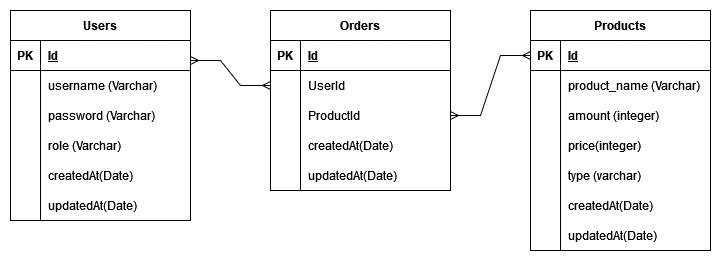
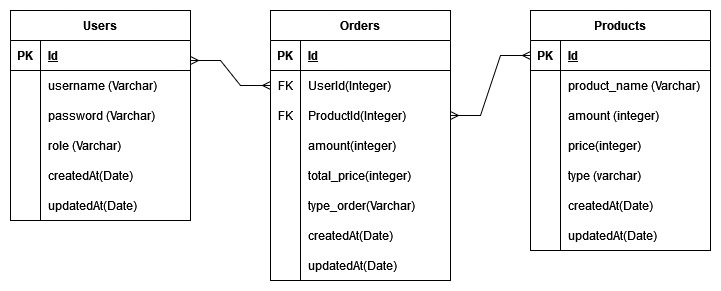
add seeding and edit schema

diff --git a/backend/migrations/20230217064931-create-order.js b/backend/migrations/20230217064931-create-order.js
@@ -1,43 +1,52 @@
-'use strict';
+"use strict";
 /** @type {import('sequelize-cli').Migration} */
 module.exports = {
   async up(queryInterface, Sequelize) {
-    await queryInterface.createTable('Orders', {
+    await queryInterface.createTable("Orders", {
       id: {
         allowNull: false,
         autoIncrement: true,
         primaryKey: true,
-        type: Sequelize.INTEGER
+        type: Sequelize.INTEGER,
       },
       UserId: {
         type: Sequelize.INTEGER,
         references: {
-          model: 'Users',
-          key: 'id'
+          model: "Users",
+          key: "id",
         },
-        onUpdate: 'cascade',
-        onDelete: 'cascade'
+        onUpdate: "cascade",
+        onDelete: "cascade",
       },
       ProductId: {
         type: Sequelize.INTEGER,
         references: {
-          model: 'Product',
-          key: 'id'
+          model: "Products",
+          key: "id",
         },
-        onUpdate: 'cascade',
-        onDelete: 'cascade'
+        onUpdate: "cascade",
+        onDelete: "cascade",
+      },
+      amount: {
+        type: Sequelize.INTEGER,
+      },
+      total_price: {
+        type: Sequelize.INTEGER,
+      },
+      typeOrder: {
+        type: Sequelize.STRING,
       },
       createdAt: {
         allowNull: false,
-        type: Sequelize.DATE
+        type: Sequelize.DATE,
       },
       updatedAt: {
         allowNull: false,
-        type: Sequelize.DATE
-      }
+        type: Sequelize.DATE,
+      },
     });
   },
   async down(queryInterface, Sequelize) {
-    await queryInterface.dropTable('Orders');
-  }
+    await queryInterface.dropTable("Orders");
+  },
 };

diff --git a/backend/seeders/20230217070127-seed_user.js b/backend/seeders/20230217070127-seed_user.js
@@ -1,0 +1,35 @@
+'use strict';
+
+const { hashPassword } = require('../helpers/bcrypt');
+
+/** @type {import('sequelize-cli').Migration} */
+module.exports = {
+  async up (queryInterface, Sequelize) {
+    let userData = require("../db.json").Users
+    userData.forEach(el=>{
+      el.password = hashPassword(el.password)
+      el.createdAt = new Date()
+      el.updatedAt = new Date()
+    })
+    await queryInterface.bulkInsert('Users', userData, {})
+    /**
+     * Add seed commands here.
+     *
+     * Example:
+     * await queryInterface.bulkInsert('People', [{
+     *   name: 'John Doe',
+     *   isBetaMember: false
+     * }], {});
+    */
+  },
+
+  async down (queryInterface, Sequelize) {
+    await queryInterface.bulkDelete('Users', null, {});
+    /**
+     * Add commands to revert seed here.
+     *
+     * Example:
+     * await queryInterface.bulkDelete('People', null, {});
+     */
+  }
+};

diff --git a/backend/seeders/20230217070135-seed_product.js b/backend/seeders/20230217070135-seed_product.js
@@ -1,0 +1,32 @@
+'use strict';
+
+/** @type {import('sequelize-cli').Migration} */
+module.exports = {
+  async up (queryInterface, Sequelize) {
+    let productData = require("../db.json").Products
+    productData.forEach(el=>{
+      el.createdAt = new Date()
+      el.updatedAt = new Date()
+    })
+    await queryInterface.bulkInsert('Products', productData, {})
+    /**
+     * Add seed commands here.
+     *
+     * Example:
+     * await queryInterface.bulkInsert('People', [{
+     *   name: 'John Doe',
+     *   isBetaMember: false
+     * }], {});
+    */
+  },
+
+  async down (queryInterface, Sequelize) {
+    await queryInterface.bulkDelete('Products', null, {})
+    /**
+     * Add commands to revert seed here.
+     *
+     * Example:
+     * await queryInterface.bulkDelete('People', null, {});
+     */
+  }
+};

diff --git a/backend/seeders/20230217070145-seed_order.js b/backend/seeders/20230217070145-seed_order.js
@@ -1,0 +1,32 @@
+"use strict";
+
+/** @type {import('sequelize-cli').Migration} */
+module.exports = {
+  async up(queryInterface, Sequelize) {
+    let orderData = require("../db.json").Orders;
+    orderData.forEach((el) => {
+      el.createdAt = new Date();
+      el.updatedAt = new Date();
+    });
+    await queryInterface.bulkInsert("Orders", orderData, {});
+    /**
+     * Add seed commands here.
+     *
+     * Example:
+     * await queryInterface.bulkInsert('People', [{
+     *   name: 'John Doe',
+     *   isBetaMember: false
+     * }], {});
+     */
+  },
+
+  async down(queryInterface, Sequelize) {
+    await queryInterface.bulkDelete("Orders", null, {});
+    /**
+     * Add commands to revert seed here.
+     *
+     * Example:
+     * await queryInterface.bulkDelete('People', null, {});
+     */
+  },
+};

diff --git a/backend/models/order.js b/backend/models/order.js
@@ -10,12 +10,28 @@ module.exports = (sequelize, DataTypes) => {
      * The `models/index` file will call this method automatically.
      */
     static associate(models) {
-      // define association here
+      Order.hasMany(models.User)
+      Order.hasMany(models.Product)
     }
   }
   Order.init({
     UserId: DataTypes.INTEGER,
-    ProductId: DataTypes.INTEGER
+    ProductId: DataTypes.INTEGER,
+    amount:{
+      type: DataTypes.INTEGER,
+      allowNull: false,
+        unique: true,
+        validate: {
+          notNull: {
+            msg: "Please Fill the Amount",
+          },
+          notEmpty: {
+            msg: "Please Fill the Amount",
+          },
+        },
+    },
+    total_price:DataTypes.INTEGER,
+    typeOrder: DataTypes.STRING
   }, {
     sequelize,
     modelName: 'Order',

diff --git a/backend/models/product.js b/backend/models/product.js
@@ -10,7 +10,7 @@ module.exports = (sequelize, DataTypes) => {
      * The `models/index` file will call this method automatically.
      */
     static associate(models) {
-      // define association here
+      Product.belongsToMany(models.User,{through:models.Order, uniqueKey:"ProductId"})
     }
   }
   Product.init({
@@ -27,16 +27,16 @@ module.exports = (sequelize, DataTypes) => {
           },
         },
     },
-    amount: {
+    stock: {
       type: DataTypes.INTEGER,
       allowNull: false,
         unique: true,
         validate: {
           notNull: {
-            msg: "Please Fill the Amount",
+            msg: "Please Fill the Stock",
           },
           notEmpty: {
-            msg: "Please Fill the Amount",
+            msg: "Please Fill the Stock",
           },
         },
     },

diff --git a/backend/models/user.js b/backend/models/user.js
@@ -2,6 +2,7 @@
 const {
   Model
 } = require('sequelize');
+const { hashPassword } = require('../helpers/bcrypt');
 module.exports = (sequelize, DataTypes) => {
   class User extends Model {
     /**
@@ -10,7 +11,7 @@ module.exports = (sequelize, DataTypes) => {
      * The `models/index` file will call this method automatically.
      */
     static associate(models) {
-      // define association here
+      User.belongsToMany(models.Product, {through:models.Order, uniqueKey:"UserId"})
     }
   }
   User.init({
@@ -58,7 +59,7 @@ module.exports = (sequelize, DataTypes) => {
     modelName: 'User',
   });
   User.beforeCreate((instance, option)=>{
-    instance.password
+    instance.password = hashPassword(instance.password)
   })
   return User;
 };

diff --git a/backend/helpers/bcrypt.js b/backend/helpers/bcrypt.js
@@ -1,0 +1,8 @@
+const bcrypt = require("bcryptjs");
+let hashPassword = (password) => bcrypt.hashSync(password);
+let comparePassword = (password, hashPass) =>
+  bcrypt.compareSync(password, hashPass);
+module.exports = {
+  hashPassword,
+  comparePassword,
+};

diff --git a/backend/migrations/20230217064846-create-product.js b/backend/migrations/20230217064846-create-product.js
@@ -12,7 +12,7 @@ module.exports = {
       product_name: {
         type: Sequelize.STRING
       },
-      amount: {
+      stock: {
         type: Sequelize.INTEGER
       },
       price: {
